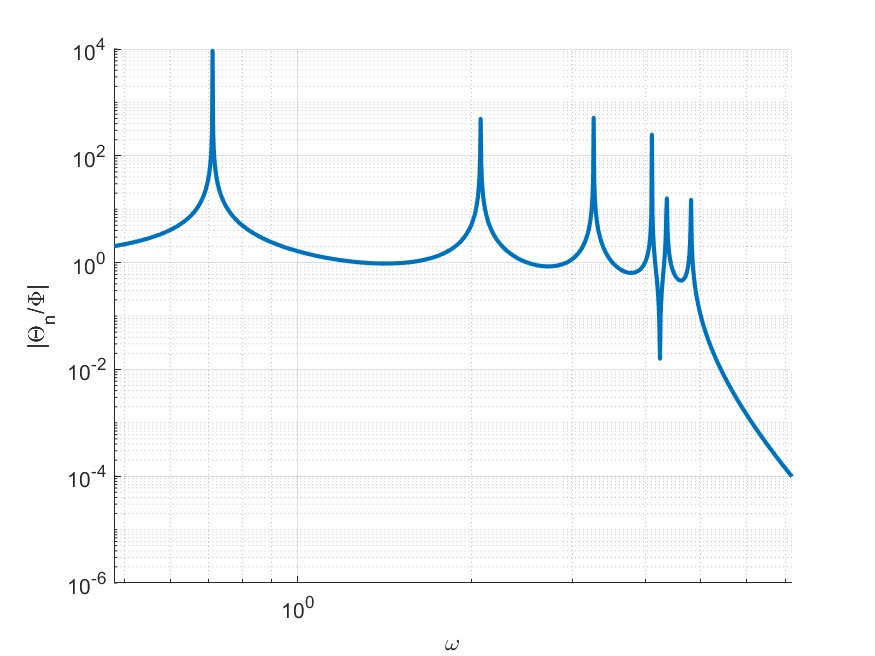
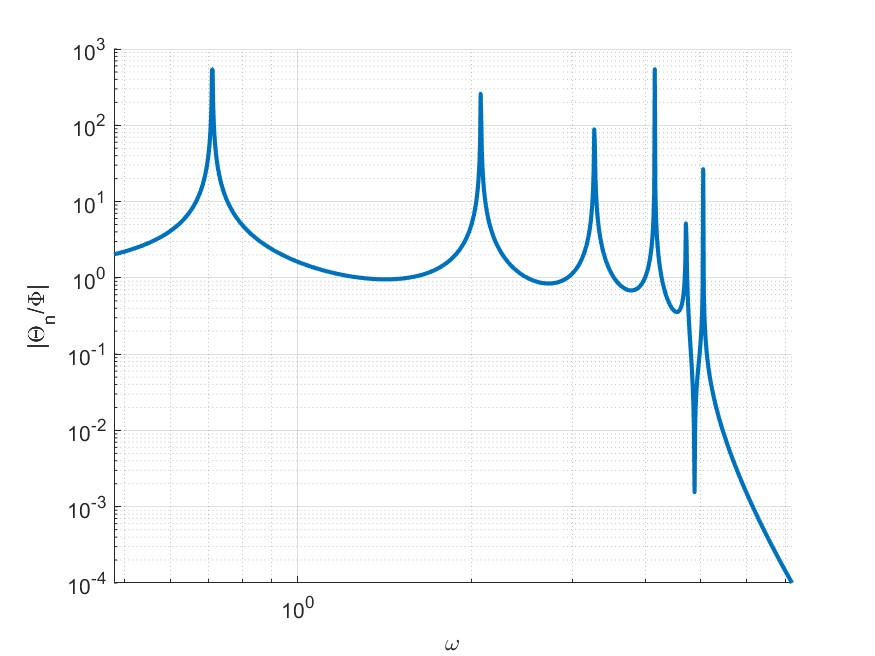
Grid Search over Frequency

diff --git a/main.m b/main.m
@@ -123,15 +123,15 @@ K = f_K(n, m, k);
 % [ca1, ca2]
 f_ca = @(x) [x(1); x(2)];
 % Initial Value
-x_0 = [50, 50];
+x_0 = [0.5, 0.5];
 % Lower Bound
 x_lb = [0, 0];
 % Optimized Function
-x_f = @(x) f_T_max(n, w, M, f_C(n, m, na, f_ca(x)), K, k);
+x_f = @(x) f_T_max(n, w_e_range, M, f_C(n, m, na, f_ca(x)), K, k);
 % Optimization Options
 x_options = optimoptions('fminimax');
-x_options.MaxIterations = 1e5;
-x_options.MaxFunctionEvaluations = 1e8;
+x_options.MaxIterations = 100;
+x_options.MaxFunctionEvaluations = 1000;
 x_options.Display = 'iter';
 % Optimization Results
 [x, ~, ~, x_flag, x_output] = fminimax(x_f, x_0, [], [], [], [], x_lb, [], [], x_options);
@@ -197,7 +197,7 @@ for na1 = 1:n - 1
         na_j(1) = na1;
         na_j(2) = na2;
         % Optimize
-        [Ia_j, ca_j, T_minimax_j, x_flag, x_output] = f_T_minimax(n, w, m, na_j, u, I, k);
+        [Ia_j, ca_j, T_minimax_j, x_flag, x_output] = f_T_minimax(n, w_e_range, m, na_j, u, I, k);
         if x_flag ~= 1 && isempty(first_wrong_flag)
             first_wrong_flag = x_flag;
             first_wrong_output = x_output;
@@ -297,7 +297,7 @@ function K = f_K(n, m, k)
     end
 end
 
-function [Ia, ca, T_minimax, x_flag, x_output] = f_T_minimax(n, w, m, na, u, I, k)
+function [Ia, ca, T_minimax, x_flag, x_output] = f_T_minimax(n, w_e_range, m, na, u, I, k)
     % Stiffness Matrix
     K = f_K(n, m, k);
     % Optimization Parameter Vector
@@ -305,11 +305,11 @@ function [Ia, ca, T_minimax, x_flag, x_output] = f_T_minimax(n, w, m, na, u, I, 
     f_Ia = @(x) [x(1); x(2)];
     f_ca = @(x) [x(3); x(4)];
     % Initial Value
-    x_0 = [u / 2, u / 2, 50, 50];
+    x_0 = [u / 2, u / 2, 0.5, 0.5];
     % Lower Bound
     x_lb = [0, 0, 0, 0];
     % Optimized Function
-    x_f = @(x) f_T_max(n, w, f_M(n, m, I, f_Ia(x)), f_C(n, m, na, f_ca(x)), K, k);
+    x_f = @(x) f_T_max(n, w_e_range, f_M(n, m, I, f_Ia(x)), f_C(n, m, na, f_ca(x)), K, k);
     % Linear Equality Constraint
     x_Aeq = [1, 1, 0, 0];
     x_beq = u;
@@ -328,23 +328,12 @@ function [Ia, ca, T_minimax, x_flag, x_output] = f_T_minimax(n, w, m, na, u, I, 
     T_minimax = x_maxfval;
 end
 
-function T_max_range = f_T_max(n, w, M, C, K, k)
-    % Optimization Parameter Vector
-    % [w_e]
-    % Lower Bound
-    x_lb = 0;
-    % Upper Bound
-    x_ub = max(w) * 1.5;
-    % Optimized Function
-    x_f = @(x) -f_T(n, x, M, C, K, k);
-    % Optimization Options
-    x_options = optimset('fminbnd');
-    x_options.MaxIterations = 1e5;
-    x_options.MaxFunctionEvaluations = 1e8;
-    % Optimization Results
-    [~, x_fval] = fminbnd(x_f, x_lb, x_ub, x_options);
-    % Maximum Transmissibility
-    T_max_range = -x_fval;
+function T_range = f_T_max(n, w_e_range, M, C, K, k)
+    % Transmissibility Range
+    T_range = zeros(size(w_e_range));
+    for j = 1:length(w_e_range)
+        T_range(j) = f_T(n, w_e_range(j), M, C, K, k);
+    end
 end
 
 % Transmissibility
@@ -357,11 +346,6 @@ end
 
 % Plot Transmisibility Range
 function plot_T_range(n, w_e_range, M, C, K, k, title)
-    % Transmissibility Range
-    T_range = zeros(size(w_e_range));
-    for j = 1:length(w_e_range)
-        T_range(j) = f_T(n, w_e_range(j), M, C, K, k);
-    end
     % Plot
     figure();
     set(gca, 'YScale', 'log');
@@ -370,6 +354,6 @@ function plot_T_range(n, w_e_range, M, C, K, k, title)
     grid('on');
     xlabel('\omega');
     ylabel('|\Theta_n/\Phi|');
-    plot(w_e_range, T_range, 'LineWidth', 2);
+    plot(w_e_range, f_T_max(n, w_e_range, M, C, K, k), 'LineWidth', 2);
     saveas(gcf, title, 'jpeg');
 end
